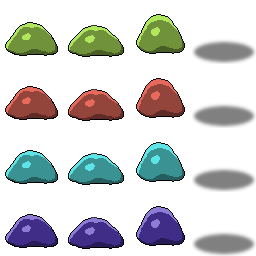
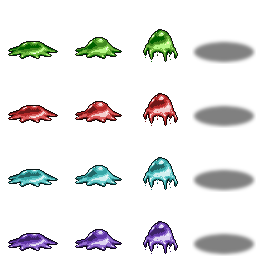
ADD New art for slimes

diff --git a/src/SlimeEntity.cpp b/src/SlimeEntity.cpp
@@ -78,6 +78,8 @@ void SlimeEntity::animate(float delay)
 
     h += hVelocity * slimeDelay;
 
+    bool firstTimeGround = false;
+
     if (h <= 0.0f)
     {
       if (hp <= 0)
@@ -88,6 +90,7 @@ void SlimeEntity::animate(float delay)
         if (isFirstJumping)
         {
           isFirstJumping = false;
+          firstTimeGround = true;
           hVelocity = 160.0f;
           SoundManager::getInstance().playSound(SOUND_SLIME_IMAPCT);
           if (slimeType == SlimeTypeBlue || slimeType == SlimeTypeRed)
@@ -106,8 +109,9 @@ void SlimeEntity::animate(float delay)
         }
       }
     }
-    if (hVelocity > 0.0f) frame = 2;
-    else frame = 0;
+    if (firstTimeGround) frame = 0;
+    else if (hVelocity > -190.0f) frame = 2;
+    else frame = 1;
   }
   else
   {
@@ -123,20 +127,12 @@ void SlimeEntity::animate(float delay)
 
       if (!game().getPlayer()->isEquiped(EQUIP_MANUAL_SLIMES) && rand() % 2 == 0)
       {
-        float tan = (game().getPlayer()->getX() - x) / (game().getPlayer()->getY() - y);
-        float angle = atan(tan);
-
-        if (game().getPlayer()->getY() > y)
-          setVelocity(Vector2D(sin(angle) * randVel,
-                                     cos(angle) * randVel));
-        else
-          setVelocity(Vector2D(-sin(angle) * randVel,
-                                     -cos(angle) * randVel));
+        setVelocity(Vector2D(x, y).vectorTo(game().getPlayerPosition(), randVel ));
       }
       else
         velocity = Vector2D(randVel);
     }
-    else if (jumpingDelay < 0.25f)
+    else if (jumpingDelay < 0.1f)
       frame = 1;
     else frame = 0;
   }
